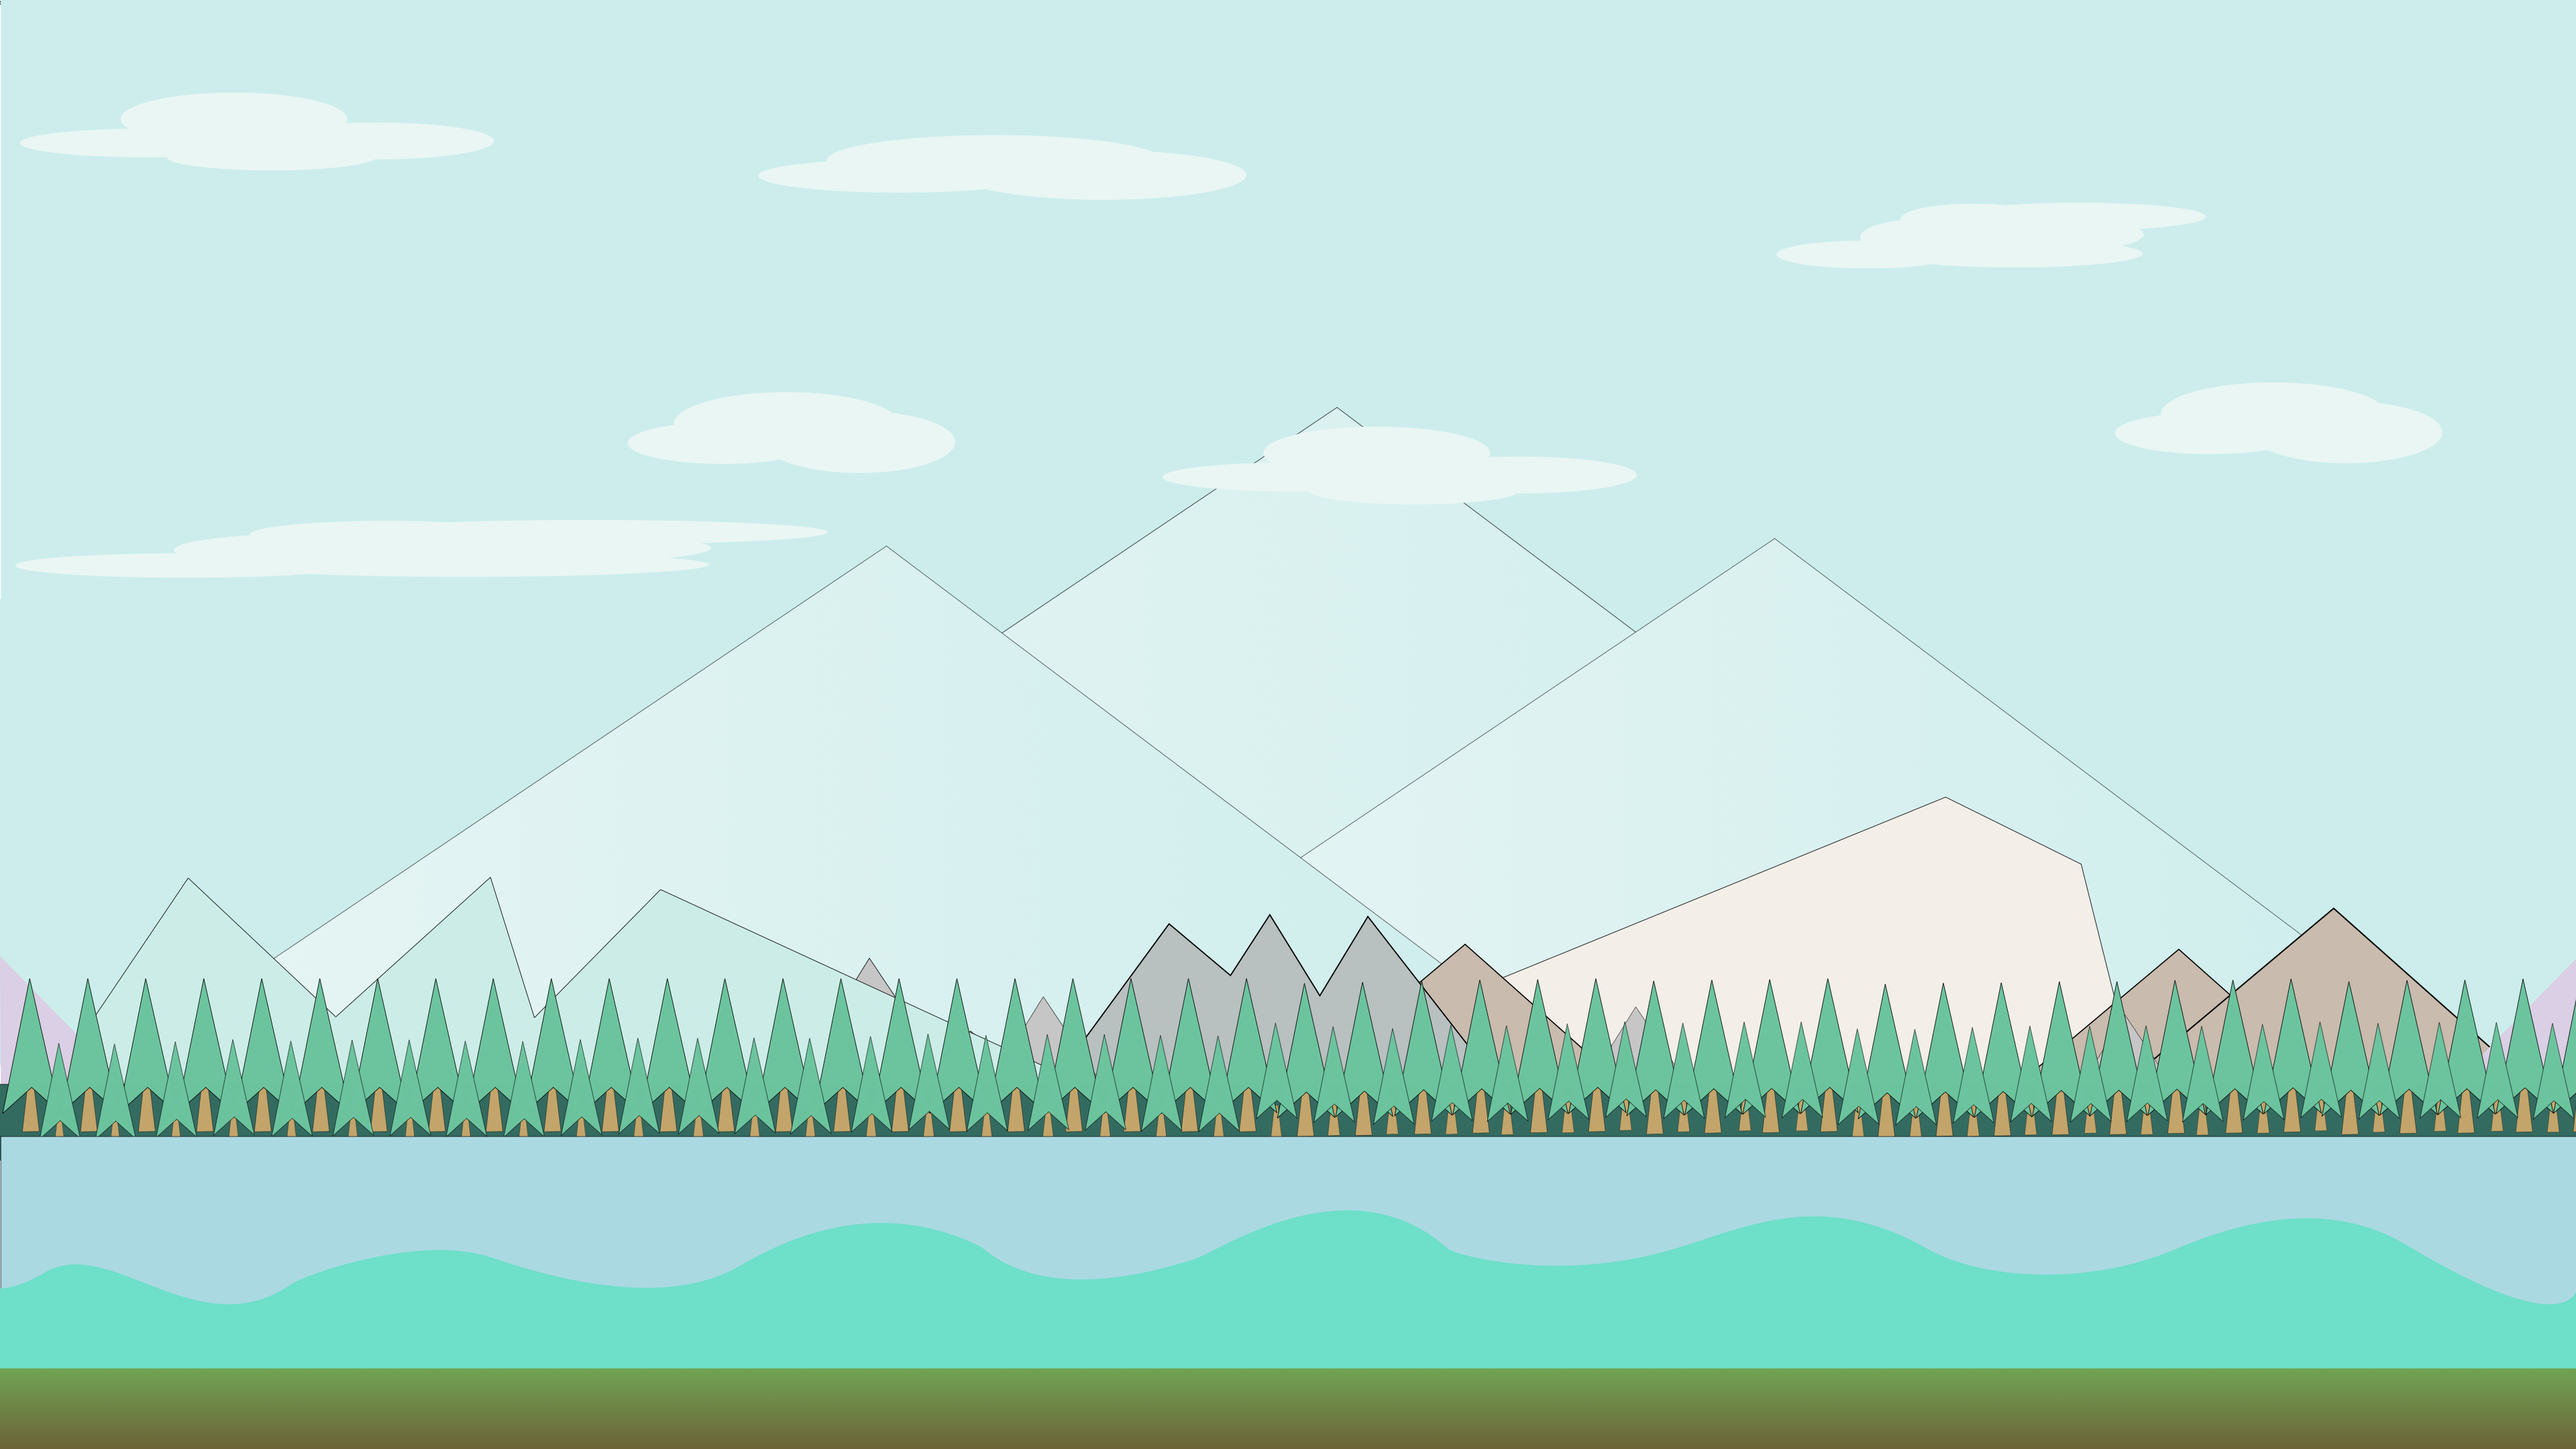
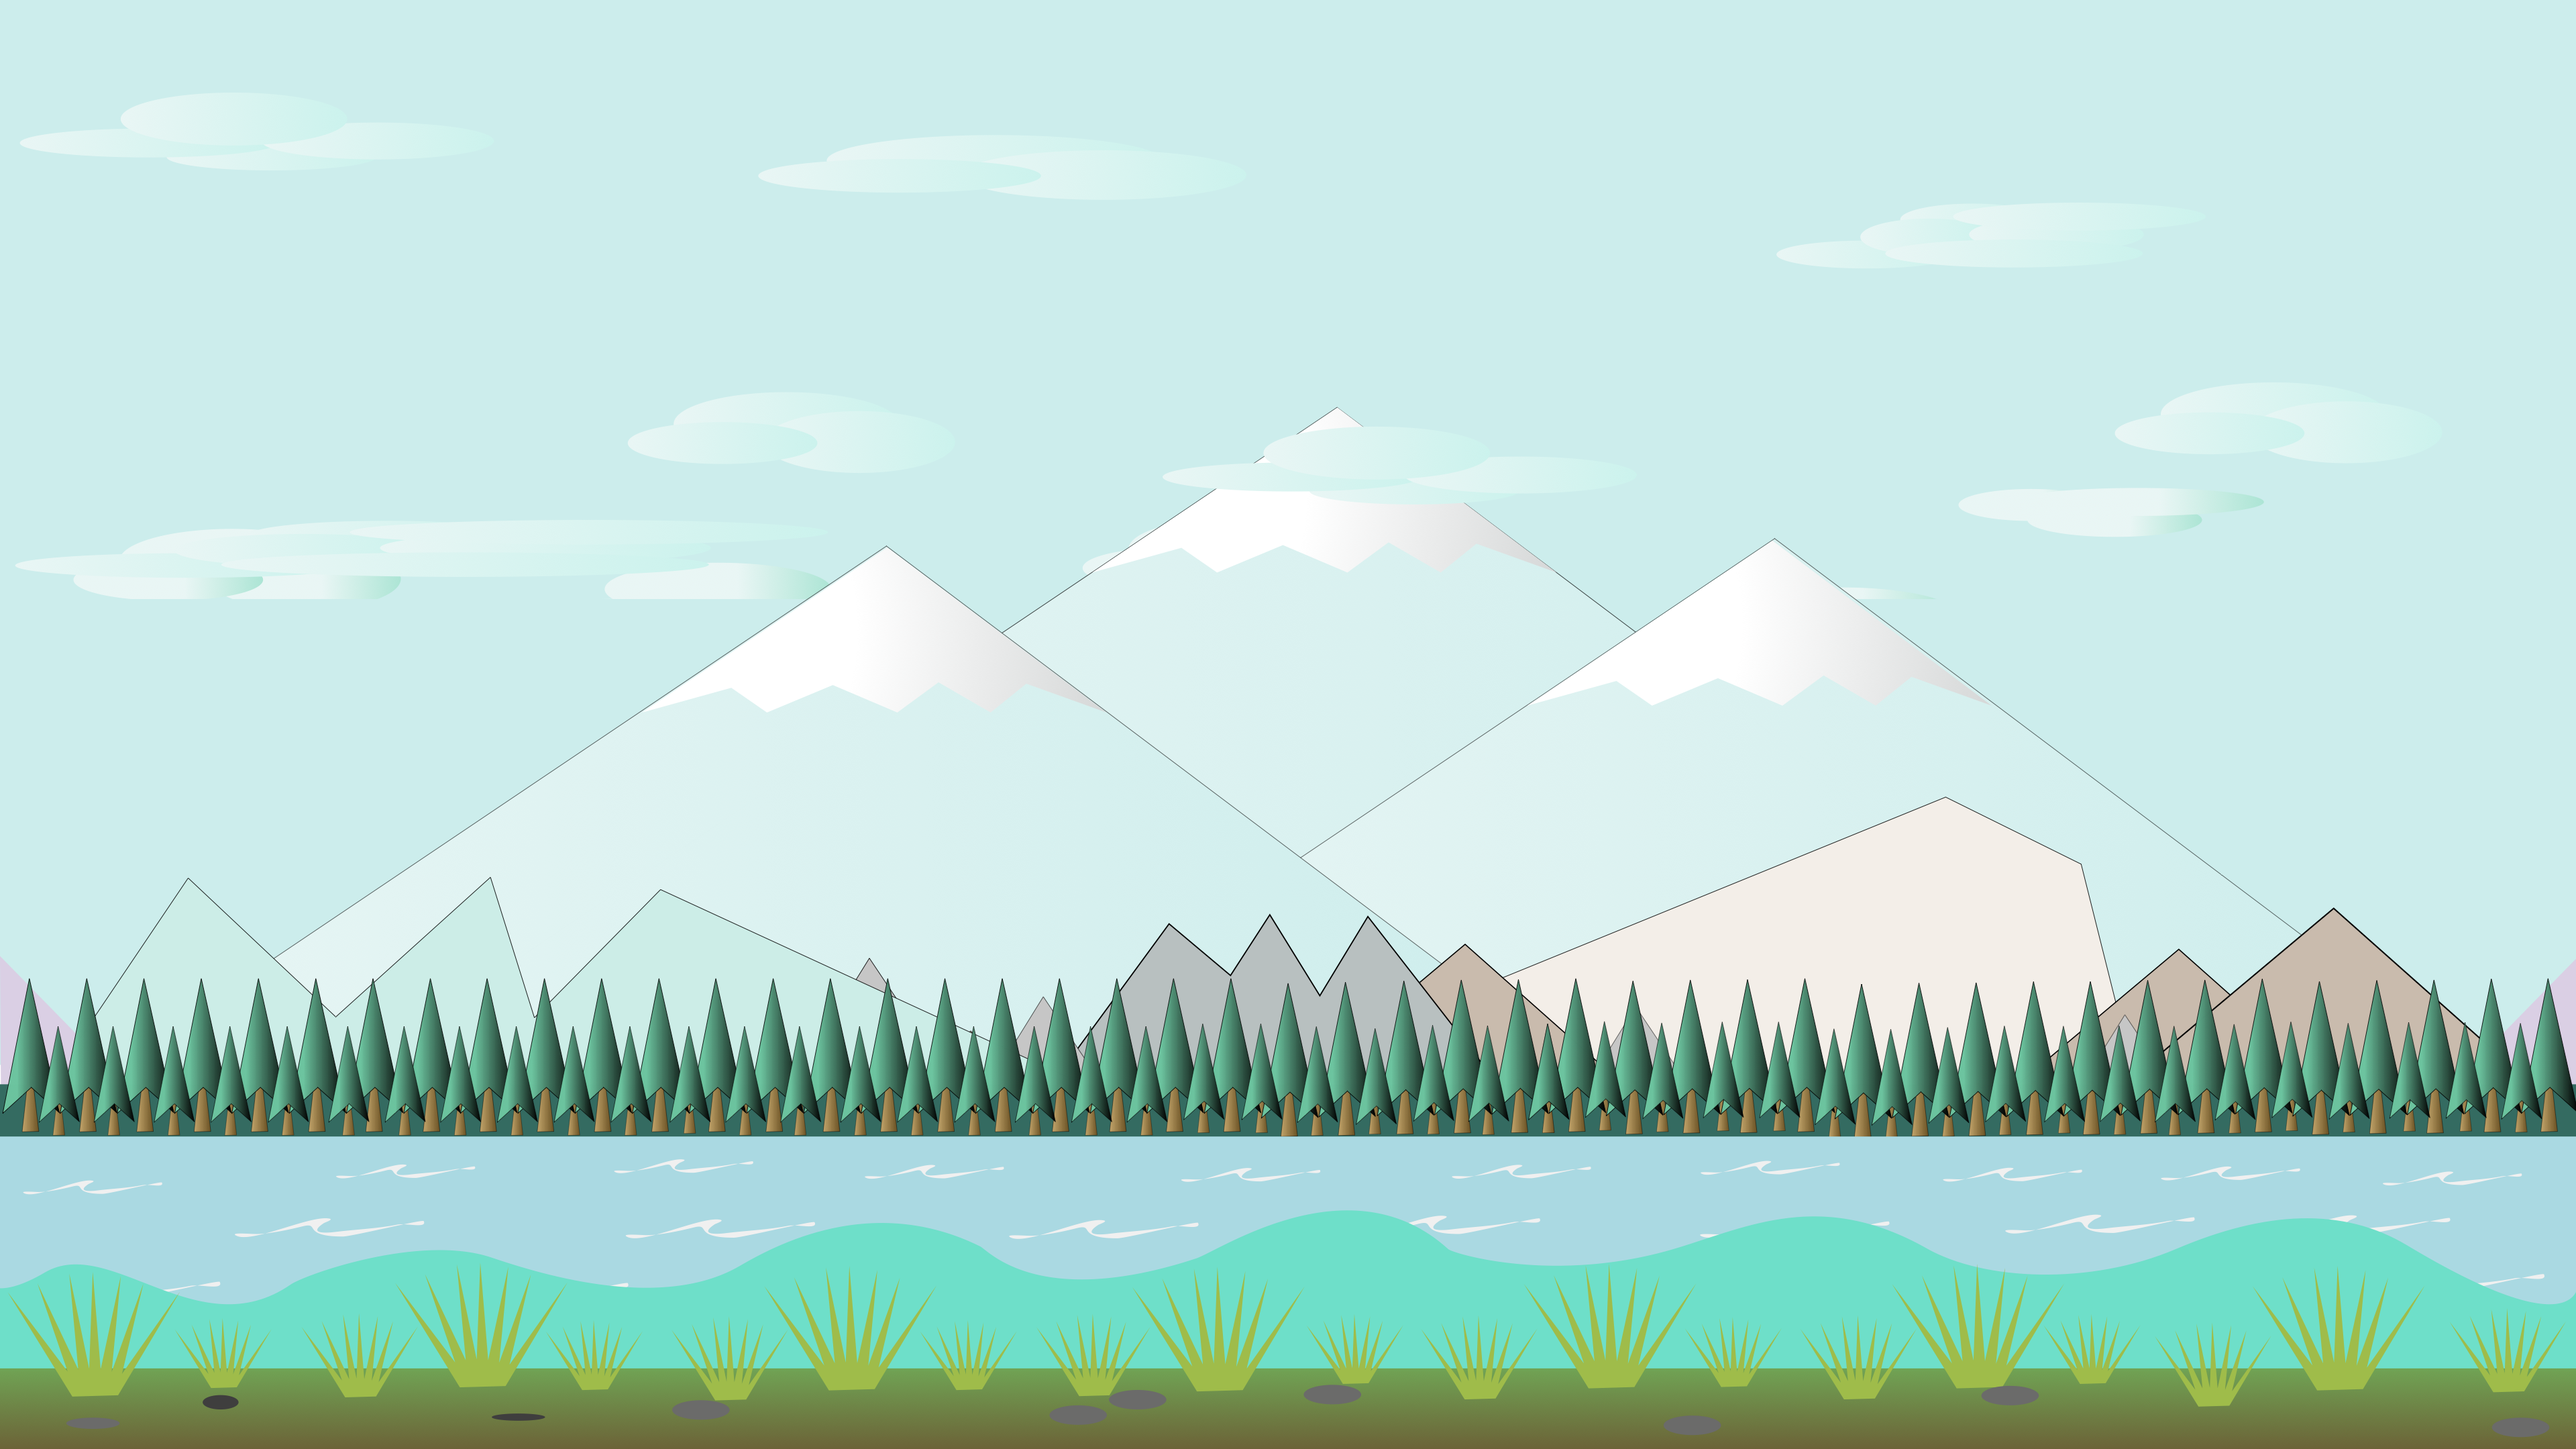
new background

diff --git a/public/css/style.css b/public/css/style.css
@@ -12,6 +12,8 @@ body{
     background-color:#CCEDE7;
 
 }
-
+main{
+    background-image: url(../Images/Background\ Image.png);
+}
     
 
